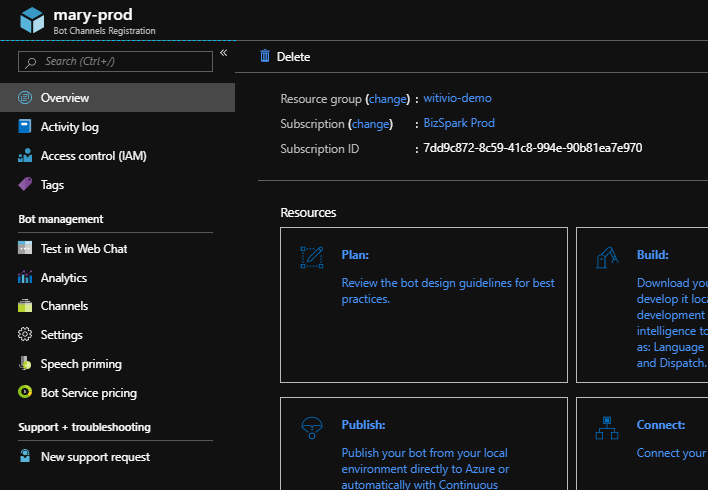
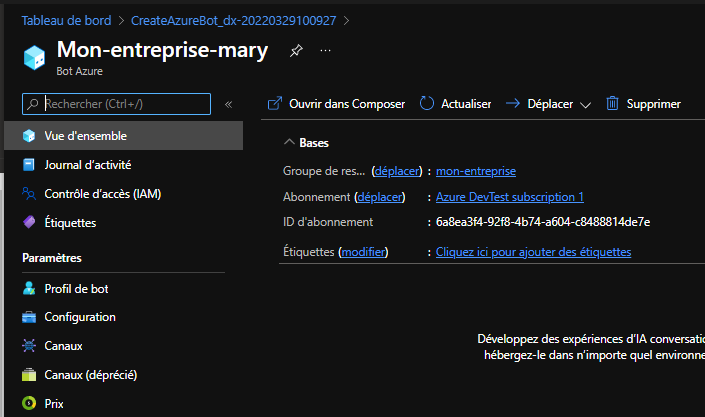
Updated creation de chanel

diff --git a/src/fr/chatbot/creation_chatbot/condition_requises.md b/src/fr/chatbot/creation_chatbot/condition_requises.md
@@ -4,7 +4,7 @@
 
 Avant de pouvoir effectuer cette étape, votre chatbot doit être créé sur la plateforme Witivio (et donc apparaitre dans la liste des chatbots). Le chatbot ne doit pas forcément être configuré. Vous pouvez effectuer cette étape lorsqu'il vient d'être créé ou lors de l'ajout d'un canal.
 
-## Création d'un Azure Bot Channel
+## Création d'un Azure Bot
 
 ::: warning ⚠
 Avant de commencer, vous devez avoir accès à une souscription Azure.
@@ -19,7 +19,7 @@ Connectez-vous au portail [https://portal.azure.com](https://portal.azure.com)
 </div>
 
 
-* Dans la barre de recherche, **entrez bot channel registration**
+* Dans la barre de recherche, **entrez 'Azure Bot'**
 
 <div class="image_center">
   <img :src="$withBase('/assets/img/fr/creation_chatbot/prerequisite2.png')" alt="bot channel registration">
@@ -32,63 +32,93 @@ Connectez-vous au portail [https://portal.azure.com](https://portal.azure.com)
   <img :src="$withBase('/assets/img/fr/creation_chatbot/prerequisite3.png')" alt="click on create">
 </div>
 
-| Nom du bot        | Le nom du bot que vous souhaitez. Une bonne pratique consiste à mettre le même que dans l'interface de Witivio |
+| Champ           | Commentaires          |
 |---------------------|-------------------------------------------------------------------------------------------|
+| Descripteur du bot        | Le nom du bot que vous souhaitez. Une bonne pratique consiste à mettre le même que dans l'interface de Witivio. S'il n'est pas disponible, vous pouvez ajouter le nom de votre société en préfixe. Exemple : "contoso-mary" |
 | Subscription        | Votre souscription Azure                                                                   |
 | Groupe de ressource    | Le groupe de ressource Azure que vous souhaitez                                                       |
 | Localisation            | La localisation du service que vous allez créer. North Europe = Dublin              |
-| Pricing Tier        | S1                                                                                        |
-| Url de message        | L'url affichée dans l'interface Witivio                                                |
-| Application Insight | Désactivé                                                                                  |
+| niveau tarifaire        | Standard                                                                                        |
+| Microsoft App Id        | choisissez **Plusieurs locataire** et **Créer un nouvel ID d'application Microsoft**                                               |
+
+::: warning ⚠ Attention
+Si vous ne choisissez pas **plusieurs locataire**, le chatbot ne fonctionnera pas et vous devrez recréer un nouveau bot Azure.
+La raison est que le bot est créé dans votre tenant mais est aussi utilisé par le tenant de Microsoft BotFramework.com
+:::
 
 <div class="image_center">
   <img :src="$withBase('/assets/img/fr/creation_chatbot/prerequisite4.png')" alt="bot channel">
 </div>
 
 
-* Créez le bot channel
-* Cliquez sur **Settings** puis sur le lien **Manage**
+
+* Cliquez sur Vérifier + créer
+* Cliquez sur Créer
+
+Une fois votre bot créé, depuis la vue d'ensemble Azure, cliquez sur **Entrées**
+
+* Verifiez que votre **appType** est bien **MultiTenant**
+* Recupérez votre password d'application dans l'input **msAppPassword**. Copiez le et **garder** le précieusement.
 
 <div class="image_center">
   <img :src="$withBase('/assets/img/fr/creation_chatbot/prerequisite5.png')" alt="Click on Settings and in the link Manage">
 </div>
 
 
-* Cliquez sur **New Clients secret** puis selectionnez **Never**
+* Cliquez sur **Vue d'ensemble** puis sur **Accéder à la ressource**
 
 <div class="image_center">
   <img :src="$withBase('/assets/img/fr/creation_chatbot/prerequisite6.png')" alt="New Clients secret">
 </div>
 
 
-* Copiez et **garder** précieusement la valeur crée
-
-Une fois créé, il faut maintenant activer Teams sur ce nouveau canal
+Il faut maintenant activer Teams sur ce nouveau bot et modifier les paramètres necessaires à son bon fonctionnement.
 
 <div class="image_center">
   <img :src="$withBase('/assets/img/fr/creation_chatbot/prerequisite7.png')" alt="Teams must now be activated">
 </div>
 
 
-Cliquez sur channels puis cliquez sur l'icone Teams
+* Dans la section **paramètres** cliquez sur **canaux** puis cliquez sur **Microsoft Teams**
 
-Cliquez sur **sauvegarder**
 
 <div class="image_center">
   <img :src="$withBase('/assets/img/fr/creation_chatbot/prerequisite8.png')" alt="click on save">
 </div>
 
-
-Acceptez les conditions d'utilisation de Microsoft.
+* Acceptez les conditions d'utilisation de Microsoft.
 
 <div class="image_center">
   <img :src="$withBase('/assets/img/fr/creation_chatbot/prerequisite9.png')" alt="Accept Microsoft's terms of use.">
 </div>
 
+* Cliquez sur **Appliquer**
+
+<div class="image_center">
+  <img :src="$withBase('/assets/img/fr/creation_chatbot/prerequisite10.png')" alt="Apply">
+</div>
+
 
 ## Configurer le canal sur l'application Witivio 365
 
-Votre canal est créé sur Azure. Vous avez donc toutes les informations pour l'activer dans l'interface. Pour cela, copiez le microsoft App Id et le Microsoft Password dans les champs correspondant.
+Votre bot est créé sur Azure et configuré pour Microsoft Teams. Vous avez donc toutes les informations pour l'activer dans l'interface. Pour cela, copiez le icrosoft App Id et le Microsoft Password dans les champs correspondant.
+
+Copiew l'url affiché dans l'interface.
+<div class="image_center">
+  <img :src="$withBase('/assets/img/fr/creation_chatbot/prerequisite10.1.png')" alt="Apply">
+</div>
+De retour dans sur votre bot dans Azure dans la section **Paramètres** cliquez sur **Configuration**
+
+<div class="image_center">
+  <img :src="$withBase('/assets/img/fr/creation_chatbot/prerequisite11.png')" alt="Configuration panel">
+</div>
+
+Collez l'url dans l'input **Point de terminaison de la messagerie**
+<div class="image_center">
+  <img :src="$withBase('/assets/img/fr/creation_chatbot/prerequisite12.png')" alt="Configuration panel filled">
+</div>
+
+Cliquez sur **Appliquer**
 
 Votre canal est configuré et votre chatbot sera actif sur Teams dans quelques minutes.
 
@@ -96,13 +126,18 @@ Votre canal est configuré et votre chatbot sera actif sur Teams dans quelques m
 
 Par défaut votre chatbot Teams n'a pas d'image.
 
-Pour lui ajouter une photo, accèdez au bot channel sur azure. Cliquez sur Settings puis Add a picture.
+Pour lui ajouter une photo, accèdez a votre bot sur azure.
+Dans la section **paramètres** cliquez sur **profil de bot**
+Dans ce menu, vous pouvez changer l'icone du bot dans Microsoft Teams ainsi que son nom.
 
+<div class="image_center">
+  <img :src="$withBase('/assets/img/fr/creation_chatbot/prerequisite13.png')" alt="Configuration panel filled">
+</div>
 
-::: tip 💾
-N'oubliez pas d'enregistrer!
+::: tip
+Dans ce menu, le nom du bot n'est pas forcément unique.
+Vous pouvez donc le changer pour mettre le nom que vous souhaitez voir dans Microsoft Teams
 :::
-
 
 
 ### Commentaires
